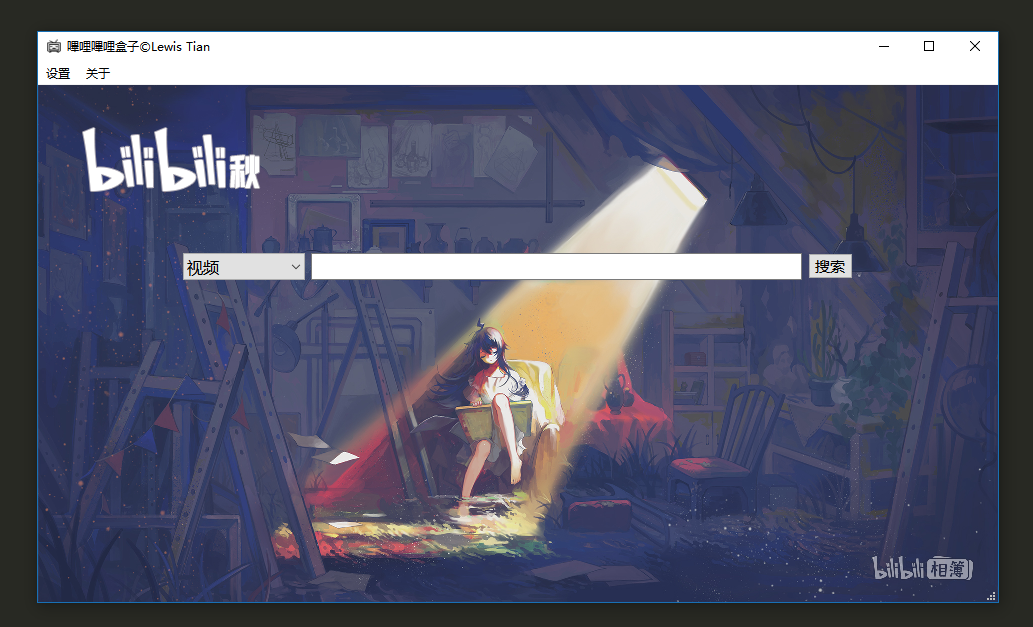
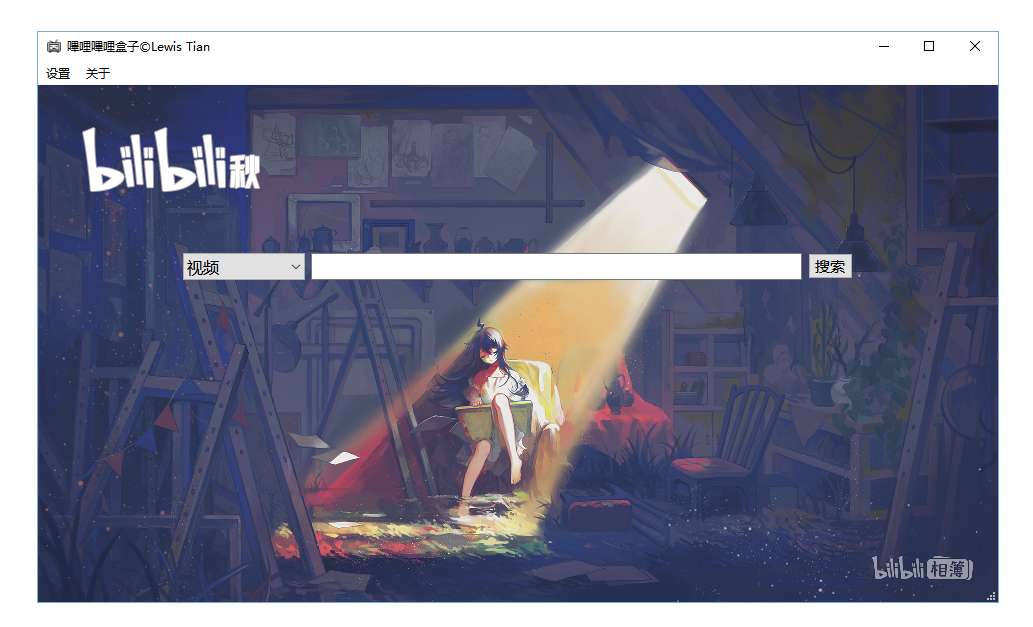
181130: add some features(see LOG.md)

Changed region(s): [[0.0, 0.0, 1.0, 1.0]]

diff --git a/src/main.py b/src/main.py
@@ -8,17 +8,26 @@
 from PyQt5.QtWidgets import *
 from PyQt5.QtGui import *
 from PyQt5.QtCore import *
+from mwin import Ui_MWin
+from concurrent import futures
 import sys
 import os
+import shutil
 import time
 import datetime
-from mwin import Ui_MWin
-
+import requests
+import re
 
 MAX_WIDTH = 1920
 MAX_HEIGHT = 1080
 
+headers = {
+	'User-Agent': 'Mozilla/5.0 (Windows NT 10.0; Win64; x64) AppleWebKit/537.36 (KHTML, like Gecko) Chrome/70.0.3538.77 Safari/537.36',
+	'Cookie': 'CURRENT_QUALITY=64; DedeUserID=227050458; '
+}
+
 class MWin(QMainWindow, Ui_MWin):
+	'''嗶哩嗶哩盒子'''
 	def __init__(self, parent=None):
 		super(MWin, self).__init__(parent)
 		self.setupUi(self)
@@ -32,11 +41,34 @@ class MWin(QMainWindow, Ui_MWin):
 		# 变量
 		self.mFlag = False
 		self.mPosition = None
-		self.bgmPath = '' # 背景图片的路径
+		self.bgiPath = '' # 背景图片的路径
+		self.key = None # 视频链接 id
+		self.vRetrieval = VideoRetrieval()
 
 		self.setLogo()
-		self.setBackgroundImage()
+		self.setBackgroundImage(self.bgiPath)
 		self.connectSlots()
+
+	def resizeEvent(self, event):
+		'''窗口大小改变，背景图的大小也要改变
+		因为设置时已经定死了图片的尺寸'''
+		self.setBackgroundImage(self.bgiPath)
+
+	def mousePressEvent(self, event):
+		x = (event.globalPos() - self.pos()).x()
+		y = (event.globalPos() - self.pos()).y()
+		if event.button() == Qt.LeftButton:
+			self.mFlag = True
+			self.mPosition = event.globalPos() - self.pos()
+			event.accept()
+	
+	def mouseMoveEvent(self, QMouseEvent):
+		if Qt.LeftButton and self.mFlag:  
+			self.move(QMouseEvent.globalPos() - self.mPosition)
+			QMouseEvent.accept()
+			
+	def mouseReleaseEvent(self, QMouseEvent):
+		self.mFlag = False
 
 	def setLogo(self):
 		'''根据季节来更换logo(当前只有秋冬的;3)'''
@@ -52,33 +84,61 @@ class MWin(QMainWindow, Ui_MWin):
 			self.logo.setPixmap(QPixmap('images/bili-winter.png'))
 			self.logo.setToolTip('嗶哩嗶哩冬~')
 
-	def setBackgroundImage(self, path='images/background.jpg'):
+	def setBackgroundImage(self, path='images/background/background.jpg'):
 		'''设置主窗口的背景图片'''
-		# self.setStyleSheet(f'border-image: url({path});')
-		self.bgmPath = path
+		if self.bgiPath == '':
+			self.bgiPath = self.readSetting(0)
+			if not self.bgiPath:
+				return
+		elif self.bgiPath != path:
+			'''如果更新背景图片则将其复制到 background 目录并删除原来的图片'''
+			bgi = os.listdir('images/background')[0]
+			os.remove(f'images/background/{bgi}')
+			_, ext = os.path.splitext(path)
+			print(ext)
+			self.bgiPath = f'images/background/background{ext}'
+			shutil.copyfile(path, self.bgiPath)
+			self.modifySetting(self.bgiPath, 0)
+
 		self.setAutoFillBackground(True)
 		pal = self.palette()
-		# pal.setBrush(self.backgroundRole(), QPixmap(f'{path}'))
-		pixmap = QPixmap(f'{path}').scaled(self.size())
+		pixmap = QPixmap(f'{self.bgiPath}').scaled(self.size())
 		pal.setBrush(QPalette.Background, QBrush(pixmap))
 		self.setPalette(pal)
 
-	def resizeEvent(self, event):
-		'''窗口大小改变，背景图的大小也要改变
-		因为设置时已经定死了图片的尺寸'''
-		self.setBackgroundImage(self.bgmPath)
+	def readSetting(self, index=0):
+		'''读取第index行数据'''
+		try:
+			with open('settting.ini') as f:
+				return f.readlines()[index]
+		except Exception as e:
+			return None
+
+	def modifySetting(self, newdata, index=0):
+		'''修改第index行数据'''
+		try:
+			with open('settting.ini') as f:
+				lines = f.readlines()
+			lines[index] = newdata
+			with open('settting.ini', 'w') as f:
+				f.write(''.join(lines))
+		except Exception as e:
+			return None
 
 	def connectSlots(self):
 		'''关联所有信号槽'''
 		# 设置菜单下 Action
-		self.minSizeAction.triggered.connect(self.minSizeActionFunc)
-		self.bgmPathAction.triggered.connect(self.bgmPathActionFunc)
+		self.minSizeAction.triggered.connect(self.modifyMinSize)
+		self.bgiPathAction.triggered.connect(self.modifyBGIPath)
 
 		# 关于下的 Action
 		self.authorAction.triggered.connect(lambda: QDesktopServices.openUrl(QUrl('https://github.com/LewisTian')))
 		self.appAction.triggered.connect(lambda: QDesktopServices.openUrl(QUrl('https://github.com/LewisTian/bili-box')))
 
-	def minSizeActionFunc(self):
+		# 按钮
+		self.searchBtn.clicked.connect(self.resolveInput)
+
+	def modifyMinSize(self):
 		'''修改窗口的最小尺寸（默认是(960, 540)）'''
 		text, okPressed = QInputDialog.getText(self, '修改窗口尺寸', '输入尺寸:', QLineEdit.Normal, "输入两个数字 以空格分割")
 		if okPressed and text != '':
@@ -87,10 +147,12 @@ class MWin(QMainWindow, Ui_MWin):
 				x, y = int(raw[0]), int(raw[1])
 			except:
 				return
+
 			self.setMinimumSize(x, y)
-			print(f'{os.getcwd()}/mwin.py')
+			self.resize(x, y)
+			
 			try:
-				with open(f'{os.getcwd()}/mwin.py', encoding='utf-8') as f:
+				with open(f'/mwin.py', encoding='utf-8') as f:
 					lines = f.readlines()
 			except Exception as e:
 				return
@@ -105,42 +167,70 @@ class MWin(QMainWindow, Ui_MWin):
 			with open('mwin.py', 'w', encoding='utf-8') as f:
 				f.write(''.join(lines))
 
+	def modifyBGIPath(self):
+		'''修改背景图片(最好比例为16x9)'''
+		filename, ext = QFileDialog.getOpenFileName(self, '选择背景图片', 
+			QStandardPaths.standardLocations(QStandardPaths.PicturesLocation)[0], 
+			'Images (*.png *.jpg)')
+		if filename != '':
+			self.setBackgroundImage(filename)
 
-	def bgmPathActionFunc(self):
-		pass
+	def resolveInput(self):
+		index = self.comboBoxHome.currentIndex()
+		text = self.lineEditHome.text()
+		if text.strip(' ') == '':
+			return
+		if index == 0:
+			key = re.findall(r'av(\d+)', text)[0]
+			if not key: return
+			if self.key and self.key == key:
+				'''避免重复请求'''
+				return
+			self.key = key
+			self.request()
+			# self.vRetrieval.url = f'https://www.bilibili.com/video/av{self.key}'
+			# self.vRetrieval.start()
+		elif index == 1:
+			pass
+		else:
+			pass
 
-	def mousePressEvent(self, event):
-		x = (event.globalPos() - self.pos()).x()
-		y = (event.globalPos() - self.pos()).y()
-		if event.button() == Qt.LeftButton:
-			self.mFlag = True
-			self.mPosition = event.globalPos() - self.pos()
-			event.accept()
-			# self.setCursor(QCursor(Qt.OpenHandCursor))
+	def request(self, btype=0):
+		'''根据请求类型构造请求'''
+		if btype == 0:
+			url = f'https://www.bilibili.com/video/av{self.key}'
+			r = requests.get(url, headers=headers).text
+			title = re.findall(r'<h1 title="(.*?)">', r)[0].replace(' ','-')
+			cover = re.findall(r'<meta.*?itemprop="image" content="(.*?)"/><meta', r)
+			print(title, cover)
+			# zz = 'page":(.*?),"from":"vupload","part":"(.*?)","duration":'
+			# links = re.findall(zz, r.text)
+			# print(links)
+		elif btype == 1:
+			pass
+		else:
+			pass
 	
-	def mouseMoveEvent(self, QMouseEvent):
-		if Qt.LeftButton and self.mFlag:  
-			self.move(QMouseEvent.globalPos() - self.mPosition)
-			QMouseEvent.accept()
-			
-	def mouseReleaseEvent(self, QMouseEvent):
-		self.mFlag = False
-
 def mainSplash():
+	'''启动画面'''
 	app = QApplication(sys.argv)
-	splash = QSplashScreen(QPixmap('../images/background.jpg'))
-	splash.showMessage("启动界面", Qt.AlignLeft | Qt.AlignBottom, Qt.black)
+	pixmap = QPixmap('images/background.jpg').scaled(720, 405)
+	splash = QSplashScreen(pixmap)
+	splash.showMessage('正在加载资源中...', Qt.AlignLeft | Qt.AlignBottom, Qt.white)
 	splash.show()
-	time.sleep(2)
 	app.processEvents()
-	window = QWidget()
-	window.show()
-	splash.finish(window)
+	time.sleep(2)
+	w = MWin()
+	w.show()
+	splash.finish(w)
 	del splash
 	app.exec()
 
-if __name__ == '__main__':
+def main():
 	app = QApplication(sys.argv)
 	w = MWin()
 	w.show()
 	sys.exit(app.exec_())
+
+if __name__ == '__main__':
+	main()

diff --git a/README.md b/README.md
@@ -1,7 +1,8 @@
 <img src="images/bilibili.ico" height="120" alt="嗶哩嗶哩工具箱" title="嗶哩嗶哩工具箱" align="right">
 
 ## 嗶哩嗶哩工具箱
-一个用来下载视频、图片（或许会增加下载音频的功能也不一定）的一个小东西。
+一个用来下载视频、图片（或许会增加下载音频的功能也不一定）的一个小东西。<br >
+注：本项目图标大部分来自 [iconfont](http://www.iconfont.cn).
 
 <div align="center">
 	<img src="images/cover.png" alt="嗶哩嗶哩工具箱" title="嗶哩嗶哩工具箱">
@@ -14,9 +15,17 @@
 	<img src="images/cry.png" height="120" alt="掩面哭" title="掩面哭">
 </div>
 
+### 預覽
+展示一下当前已经实现的功能
+<div align="center">
+	<img src="images/preview.gif" alt="嗶哩嗶哩工具箱" title="嗶哩嗶哩工具箱">
+</div>
+
 ### 功能
+详情查看 [Log](LOG.md)
 - 修改窗口最小尺寸(默认是 960x540)
 - 根据季节修改左上角 logo(很抱歉只收集到了嗶哩嗶哩秋和冬，若是谁有春和夏麻烦发我一下)
+- 修改背景图片
 
 ### LICENSE
 Copyright (c) 2018 Lewis Tian. Licensed under the MIT license.

diff --git a/LOG.md b/LOG.md
@@ -1,3 +1,9 @@
+### 20181130
+- 为 Action 添加图标
+- 修复设置最小尺寸比当前最小尺寸小却没有立即生效的 bug(self.resize(x, y))
+- 修改背景图片
+- 添加一个配置文件和相应的读写函数(目前是第一行作为背景图片的相对路径，可能之后会加其他的配置项)
+
 ### 20181129
 - 修改窗口最小尺寸(默认是 960x540)
 - 根据季节修改左上角 logo(很抱歉只收集到了嗶哩嗶哩秋和冬，若是谁有春和夏麻烦发我一下)
